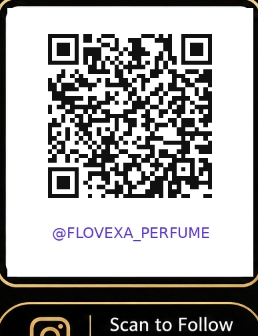
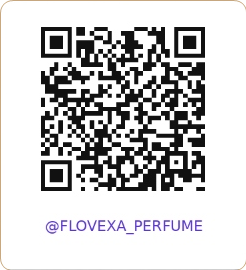
fix(footer): re-crop Instagram QR cleanly and polish luxury card frame

diff --git a/app/operations.css b/app/operations.css
@@ -7848,12 +7848,12 @@
   flex-direction: column;
   align-items: center;
   text-decoration: none;
-  background: #1f1a14;
-  border: 1px solid rgba(201, 170, 126, 0.35);
-  border-radius: 12px;
-  padding: 12px;
+  background: #17130f;
+  border: 1px solid rgba(201, 170, 126, 0.4);
+  border-radius: 14px;
+  padding: 12px 14px 14px;
   box-shadow: 0 8px 24px rgba(0, 0, 0, 0.45);
-  transition: all 0.22s ease;
+  transition: all 0.24s cubic-bezier(0.16, 1, 0.3, 1);
   width: fit-content;
 }
 
@@ -7866,9 +7866,14 @@
 .footer-qr-img {
   width: 140px;
   height: auto;
-  border-radius: 8px;
+  border-radius: 10px;
   display: block;
-  box-shadow: 0 2px 8px rgba(0, 0, 0, 0.25);
+  box-shadow: 0 4px 12px rgba(0, 0, 0, 0.3);
+  transition: transform 0.22s ease;
+}
+
+.footer-qr-card-wrap:hover .footer-qr-img {
+  transform: scale(1.02);
 }
 
 .footer-insta-btn {
@@ -7877,9 +7882,9 @@
   gap: 7px;
   margin-top: 10px;
   padding: 8px 14px;
-  background: linear-gradient(135deg, #261f18, #3b2f23);
+  background: linear-gradient(135deg, #231b14, #36291e);
   border: 1px solid #c9aa7e;
-  border-radius: 6px;
+  border-radius: 20px;
   color: #e5cdab !important;
   font-size: 11px;
   font-weight: 600;
@@ -7887,12 +7892,15 @@
   transition: all 0.2s ease;
   width: 100%;
   justify-content: center;
+  letter-spacing: 0.02em;
 }
 
+.footer-qr-card-wrap:hover .footer-insta-btn,
 .footer-insta-btn:hover {
   background: linear-gradient(135deg, #be955f, #9b723e);
   color: #ffffff !important;
   border-color: #be955f;
+  box-shadow: 0 4px 12px rgba(190, 149, 95, 0.35);
 }
 
 .footer-thankyou {

diff --git a/components/storefront.tsx b/components/storefront.tsx
@@ -355,7 +355,7 @@ export default function Storefront({
             <div className="footer-contact-list">
               <div className="footer-contact-item">
                 <span className="f-icon">📍</span>
-                <span>21, Ramdev Row-House Shopping, Rajmandir Rd, Surat – 395006</span>
+                <span>21, Ramdev Row-House Shopping, Opp. Shivdhara Society, Rajmandir Rd, Surat – 395011</span>
               </div>
               <div className="footer-contact-item">
                 <span className="f-icon">📞</span>
@@ -408,7 +408,7 @@ export default function Storefront({
                 src="/flovexa-instagram-qr.png"
                 alt="Instagram QR Code - @flovexa_perfume"
                 width={140}
-                height={182}
+                height={154}
                 className="footer-qr-img"
               />
               <div className="footer-insta-btn">
